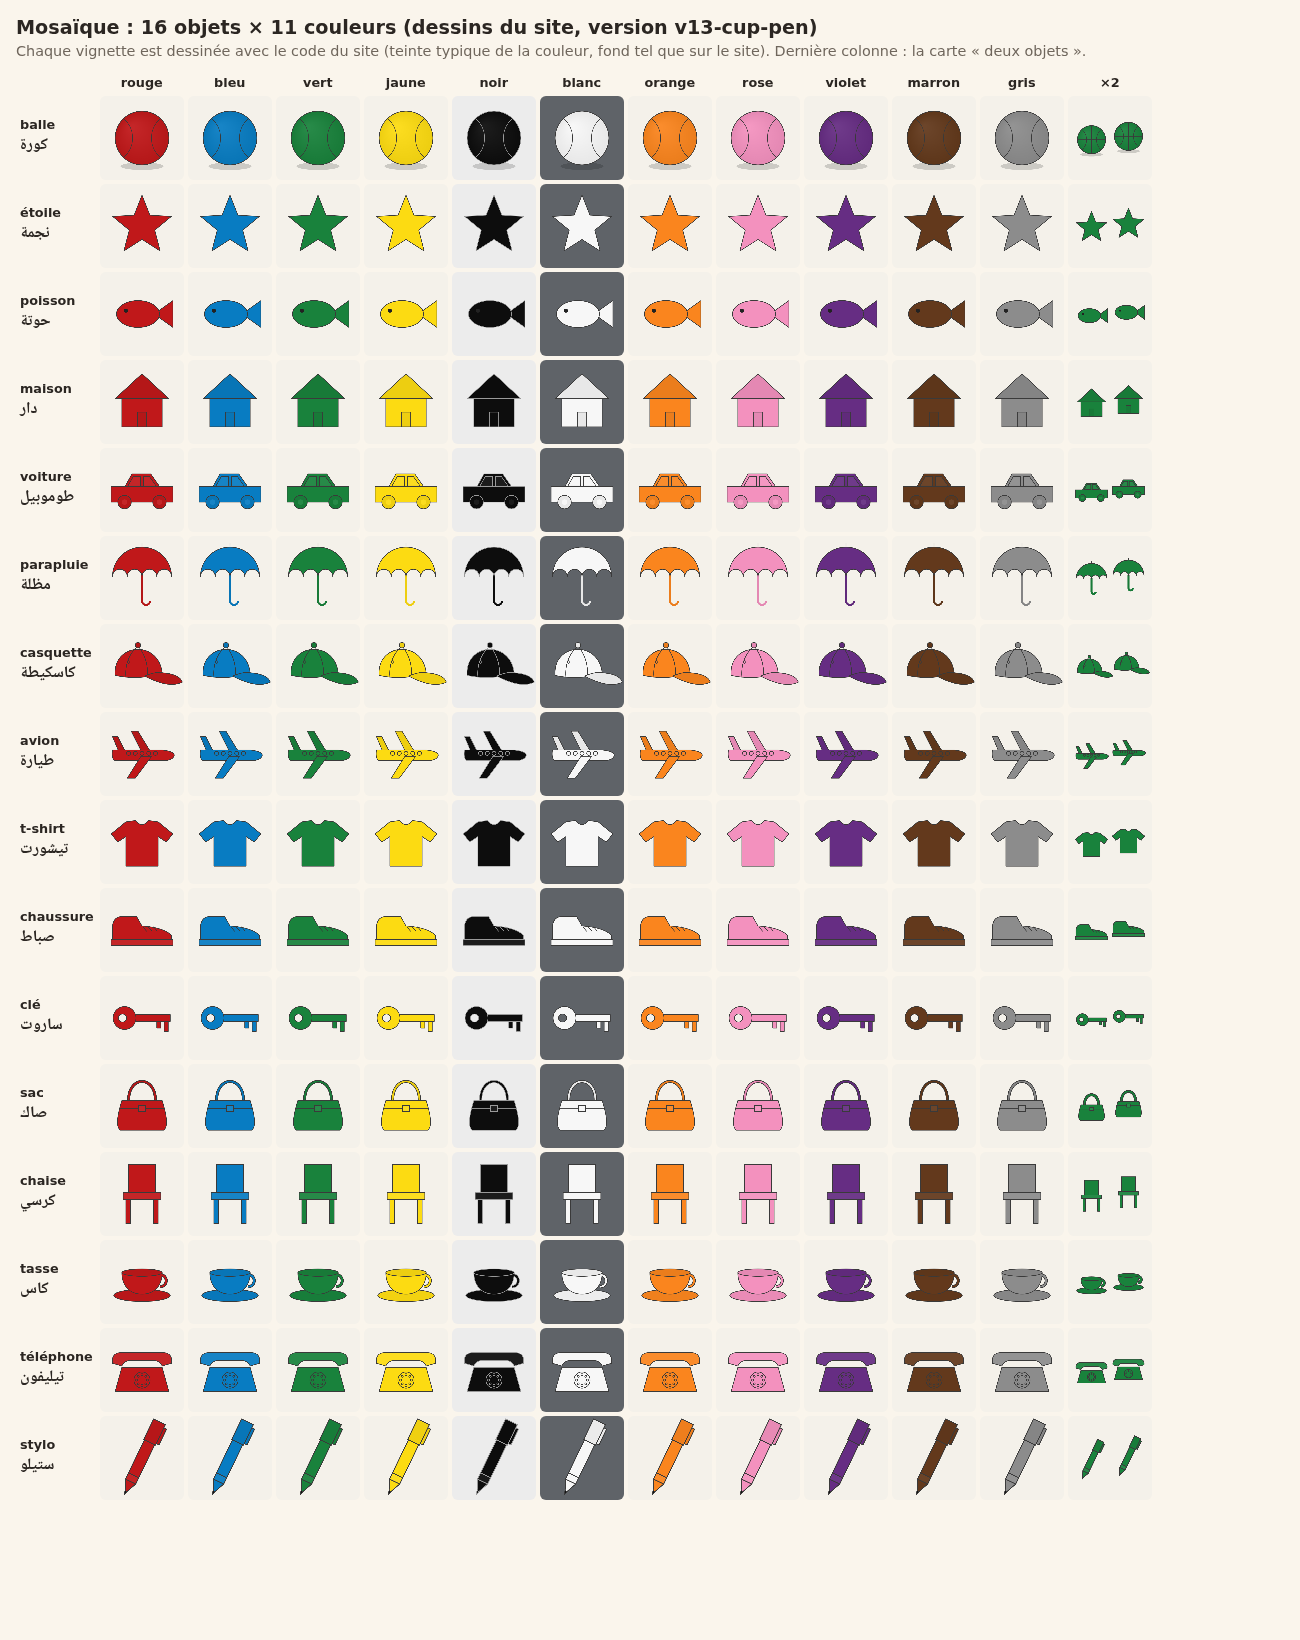
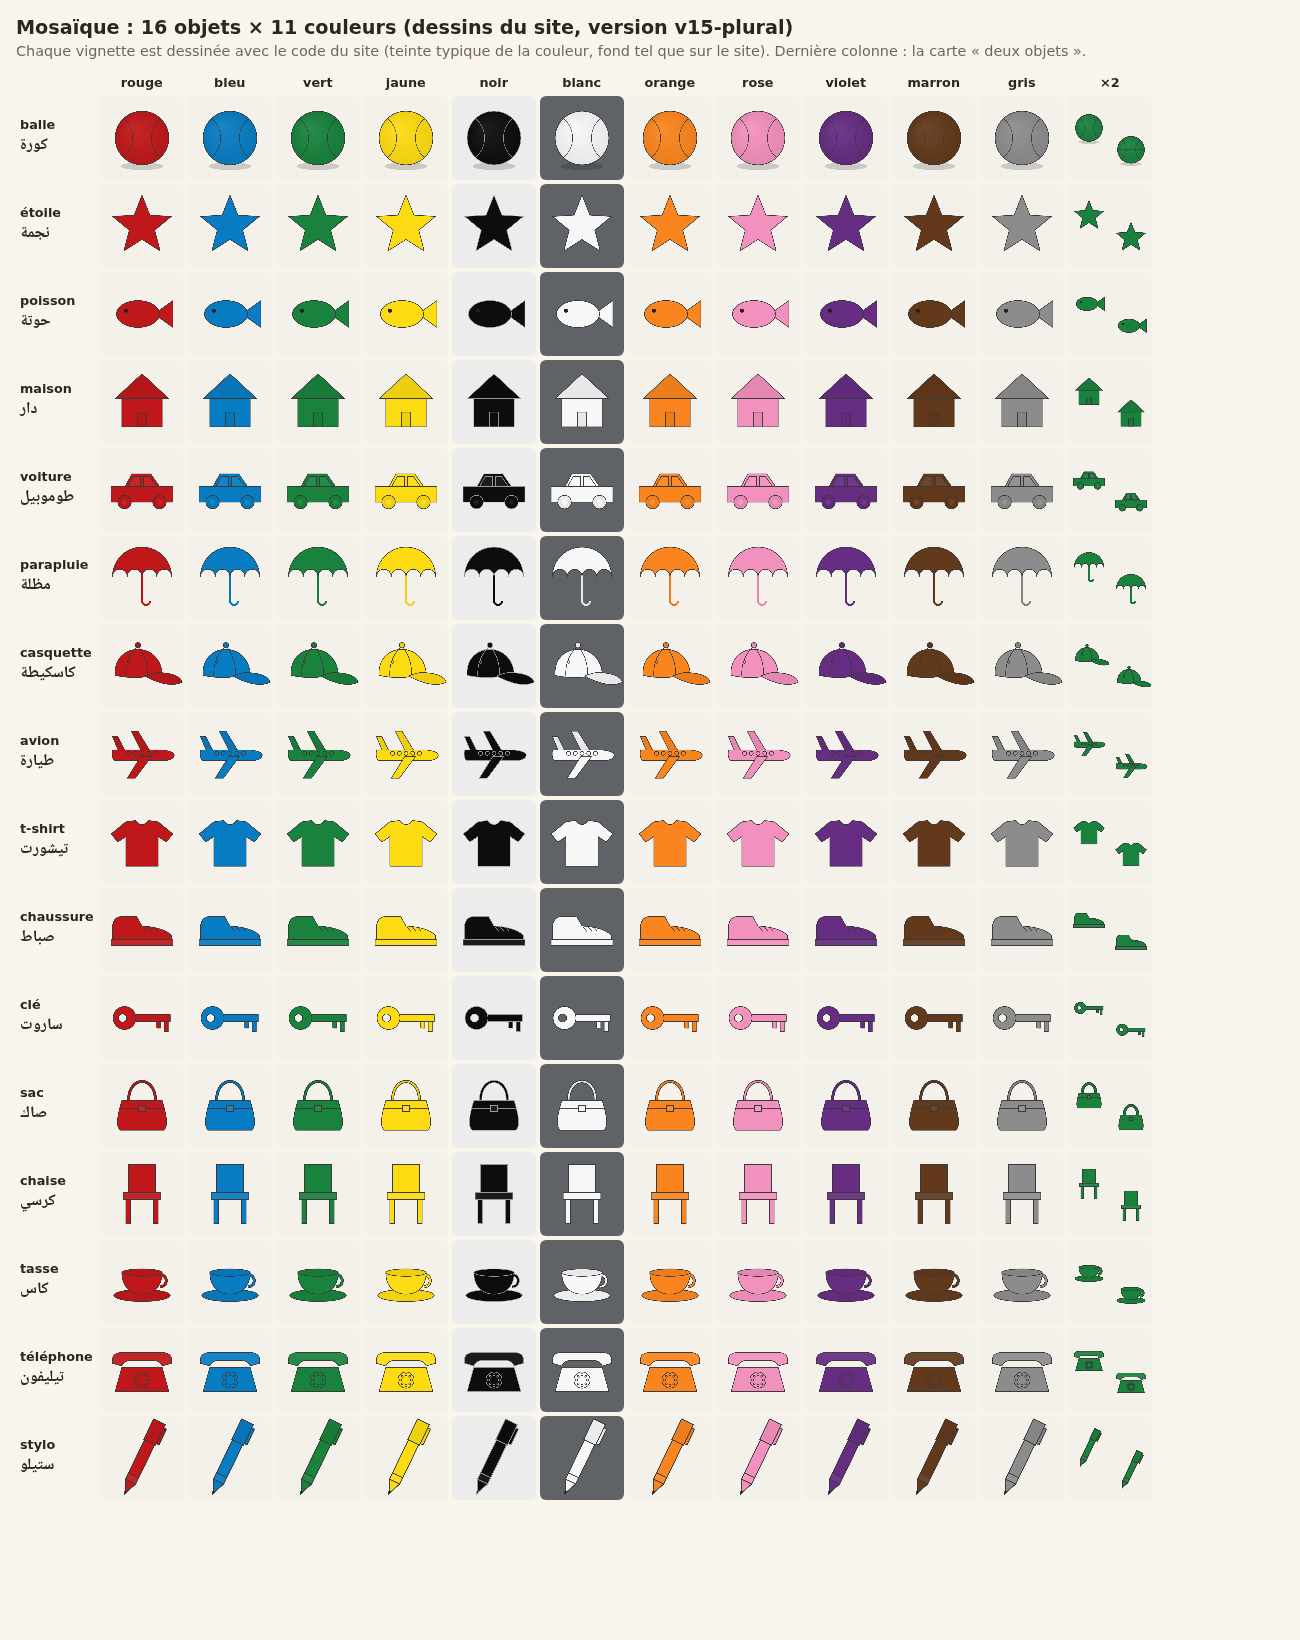
v15: two-object cards ask how many there are, objects drawn apart at different heights

diff --git a/index.html b/index.html
@@ -217,7 +217,7 @@ const TEXTS = {
         + "<li>«وصف التصويرة»: هضر على التصويرة بالدارجة كيف بغيتي، جملة ولا جوج.</li>"
         + "<li>فالبيسي: <kbd>Espace</kbd> باش تسجل وتوقف، والفليشات باش تدوز.</li>",
     hint_colour: "قول سمية هاد اللون بالكلمة اللي كتستعمل عادة", hint_object: "قول سمية هاد الحاجة بالكلمة اللي كتستعمل عادة",
-    hint_both: "قول شنو هي هاد الحاجة واللون ديالها، بالكلمات ديالك", hint_plural: "قول شنو كتشوف فهاد التصويرة، بالكلمات ديالك",
+    hint_both: "قول شنو هي هاد الحاجة واللون ديالها، بالكلمات ديالك", hint_plural: "شوف مزيان: قول شحال كاين وشنو هوما، بالكلمات ديالك",
     free: "هضر على هاد التصويرة بالدارجة كيف بغيتي، جملة ولا جوج",
     already: "مسجلة ✓ (تقدر تعاودها)", recording: "كنسجلو… هضر، ومن بعد ورك على «وقّف».",
     saved: "تسجلات ✓", fail: "ما تصيفطاتش ({e}). شوف الكونيكسيون، ومن بعد ورك على «عاود صيفط».",
@@ -273,7 +273,7 @@ const TEXTS = {
         + "<li>« Décrivez l'image » : parlez librement de l'image en darija, en une ou deux phrases.</li>"
         + "<li>Sur ordinateur : <kbd>Espace</kbd> pour enregistrer et arrêter, les flèches pour naviguer.</li>",
     hint_colour: "Dites le nom de cette couleur, avec le mot que vous utilisez d'habitude", hint_object: "Dites le nom de cet objet, avec le mot que vous utilisez d'habitude",
-    hint_both: "Dites ce que c'est et de quelle couleur, avec vos mots", hint_plural: "Dites ce que vous voyez sur l'image, avec vos mots",
+    hint_both: "Dites ce que c'est et de quelle couleur, avec vos mots", hint_plural: "Regardez bien : dites combien il y en a et ce que c'est, avec vos mots",
     free: "Décrivez l'image librement en darija, en 1 ou 2 phrases",
     already: "Déjà enregistrée ✓ (vous pouvez la refaire)", recording: "Enregistrement… parlez, puis appuyez sur Arrêter.",
     saved: "Enregistré ✓", fail: "Échec de l'envoi ({e}). Vérifiez la connexion puis « Renvoyer ».",
@@ -338,12 +338,13 @@ const QUESTIONS = {
   question: ["شنو هاد اللون؟", "hint_colour"],
   object_question: ["شنو هادشي؟", "hint_object"],
   both_question: ["شنو هادشي، وشنو اللون ديالو؟", "hint_both"],
-  plural_question: ["شنو كتشوف؟", "hint_plural"],  // two objects drawn: invites plural forms
+  // Two objects drawn. Asking "how many" makes people notice there are two (some answered as for one object).
+  plural_question: ["شحال من وحدة كاينة، وشنو هوما؟", "hint_plural"],
   free: ["وصف هاد التصويرة", "free"],
 };
 const SERIES = { question: 4, object_question: 4, both_question: 7, plural_question: 3, free: 2 };  // 20 cards
 const N_SERIES = 5;
-const VERSION = "v14-background";  // questionnaire version, saved with every recording (see EXPERIENCE.md)
+const VERSION = "v15-plural";  // questionnaire version, saved with every recording (see EXPERIENCE.md)
 // Colour-object pairs reserved for the generalisation test: recorded like the others but never
 // used for training (each colour and object is still trained in other pairs). Fixed before collection.
 const HELD_OUT = ["red_chair", "blue_phone", "green_umbrella", "yellow_shoe", "black_cap", "white_car",
@@ -602,7 +603,8 @@ function draw(p) {
   // Neutral outline: a darker shade of the colour itself could read as another colour
   // (dark orange looks brown, light red looks pink). Inner details only vary slightly.
   const outline = luminance(p.hex) < .25 ? "#9a9a9a" : "#3a3a3a";
-  const spots = p.count === 2 ? [[W * .28, W * .52, W * .42], [W * .72, W * .48, W * .42]] : [[W / 2, W / 2, W * .8]];
+  // Two objects: wide apart and at different heights, so they read as two things, not one pattern.
+  const spots = p.count === 2 ? [[W * .25, W * .38, W * .4], [W * .75, W * .64, W * .4]] : [[W / 2, W / 2, W * .8]];
   for (const [x, y, s] of spots) {
     c.fillStyle = p.hex; c.strokeStyle = outline; c.lineWidth = W * .008; c.lineJoin = "round";
     SHAPES[p.object](c, x, y, s, p.hex, p.background);

diff --git a/README.md b/README.md
@@ -6,7 +6,7 @@ for a research project.
 Each participant answers series of 20 cards (up to 5 series). Every card shows a drawn object in a
 random shade of a colour and asks a question in Darija; no words are given, so answers are spontaneous:
 "شنو هاد اللون؟" (4 per series), "شنو هادشي؟" (4), "شنو هادشي، وشنو اللون ديالو؟" (7),
-"شنو كتشوف؟" with two objects (3) and a free description (2). Every series shows all 11 colours and
+"شحال من وحدة كاينة، وشنو هوما؟" with two identical objects, drawn apart (3) and a free description (2). Every series shows all 11 colours and
 all 16 objects (see below) in random pairs, so the shape never predicts the colour. The image shown and the
 card's colour, object and question are saved with each recording, together with simple audio
 level measures used to filter noisy recordings.
